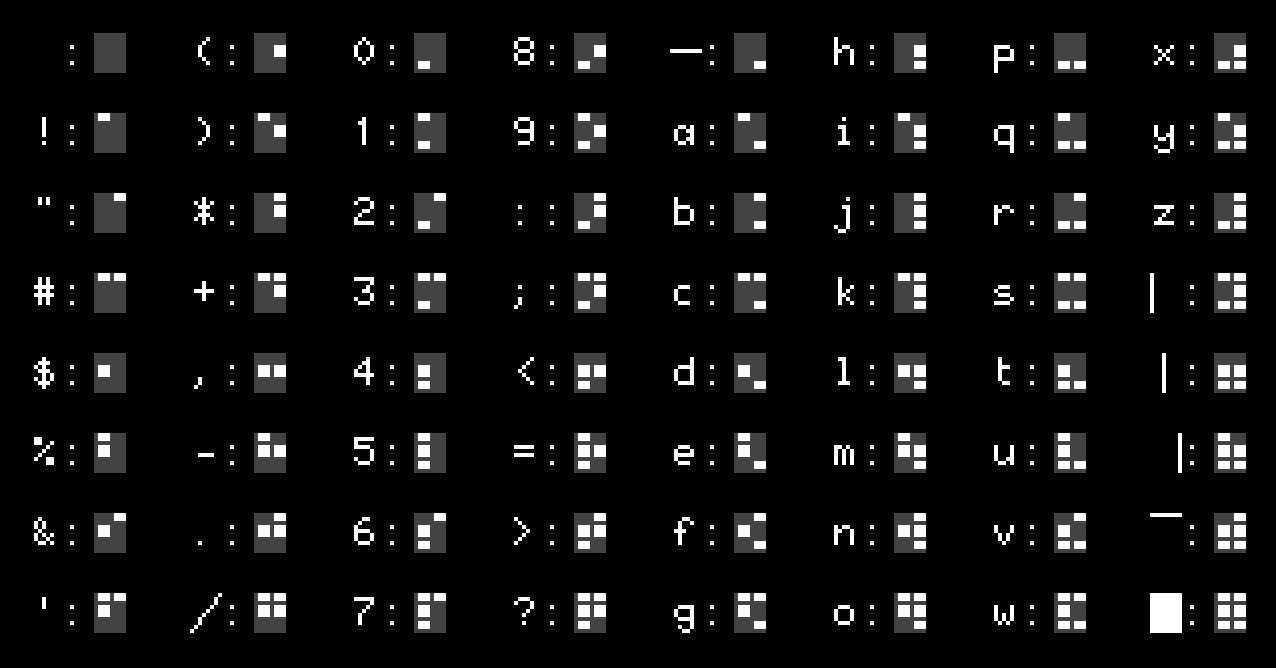
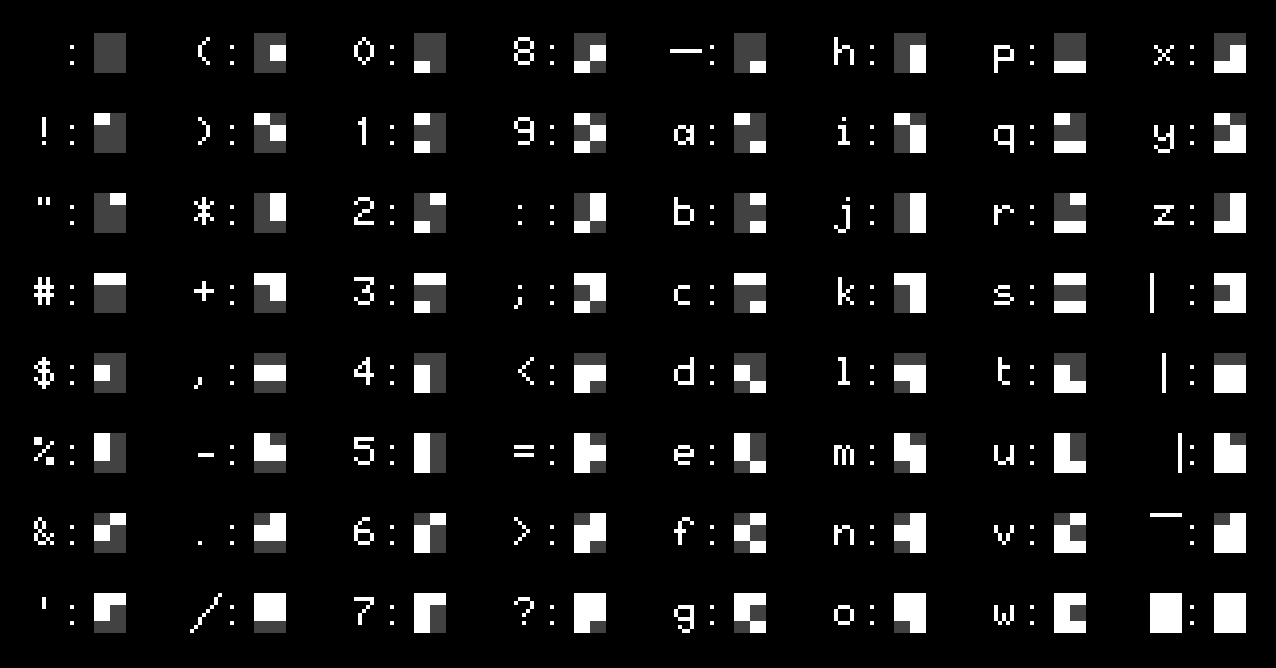
Updated TODO and graphics tables

diff --git a/TODO.md b/TODO.md
@@ -33,6 +33,10 @@
 
 ## Fonctionnalités
 
+* [ ] PLOT / UNPLOT / TEST (Voir serveur zboub et lib graphique)
+  * [ ] VT100 : https://www.w3schools.com/charsets/ref_utf_block.asp
+  * [ ] Minitel, semi graphique
+* [ ] MODE (mode écran, 0: Videotex, 1:Mixte, 2:Téléinformatique)
 * [ ] Design + Commande mode "Connexion Téléphone" (peut-on utiliser un URN TCP
   et la commande MINITEL vers un service Kiosque serveur sur le téléphone ?)
 * [ ] CAT, FTP CAT : version avec filtre (expression régulière)  et options
@@ -40,11 +44,7 @@
 * [ ] Ajouter répertoires dans système de fichiers
   (<https://randomnerdtutorials.com/esp32-write-data-littlefs-arduino/>)
 * [ ] TAB
-* [ ] MODE (mode écran, 0: Videotex, 1:Mixte, 2:Téléinformatique)
 * [ ] RAND
-* [ ] PLOT / UNPLOT / TEST (Voir serveur zboub et lib graphique)
-  * [ ] VT100 : https://www.w3schools.com/charsets/ref_utf_block.asp
-  * [ ] Minitel, semi graphique
 * [ ] EDIT line, EDIT tout seul édite la dernière entrée (raccourci: fleche
   haut). définir une zone à partir de la ligne actuelle et sur 4 lignes pour
   pouvoir entrer au max 128 caractères : mode roleau, on se déplace de 3 lignes
@@ -160,6 +160,51 @@
   pour flasher + la copie sur FS
 
 # Référence
+
+## Coordonnées semi-graphique
+
+
+`point[][]` :
+
+|     | c:0| c:1|
+|-----|----|----|
+| l:0 |  1 |  2 |
+| l:1 |  4 |  8 |
+| l:2 | 16 | 64 |
+
+Les coordonnées vont de (x:0, y:0) ou (point:16, C:1, L:24) à (x:79, y:71) ou
+(point:2, C:40, L:1).
+
+```C
+uint16_t C = (x + 2) / 2
+uint16_t L = (71 - y) / 3 + 1
+uint16_t c = x % 2
+uint16_t l = (71 - y) % 3
+uint8_t *addr = &screen[L][C];
+uint8_t cbit = point[l][c];
+```
+
+Selon qu'on `PLOT` ou `UNPLOT`
+
+`PLOT <X>,<Y>` :
+
+```C
+*addr |= cbit;
+char c = *addr + ' ';
+```
+
+`UNPLOT <X>,<Y>` :
+
+```C
+*addr &= !cbit;
+char c = *addr + ' ';
+```
+
+`TEST <X>,<Y>` :
+
+```C
+uint8_t test = *addr & cbit;
+```
 
 ## Touches en mode clavier étendu
 
